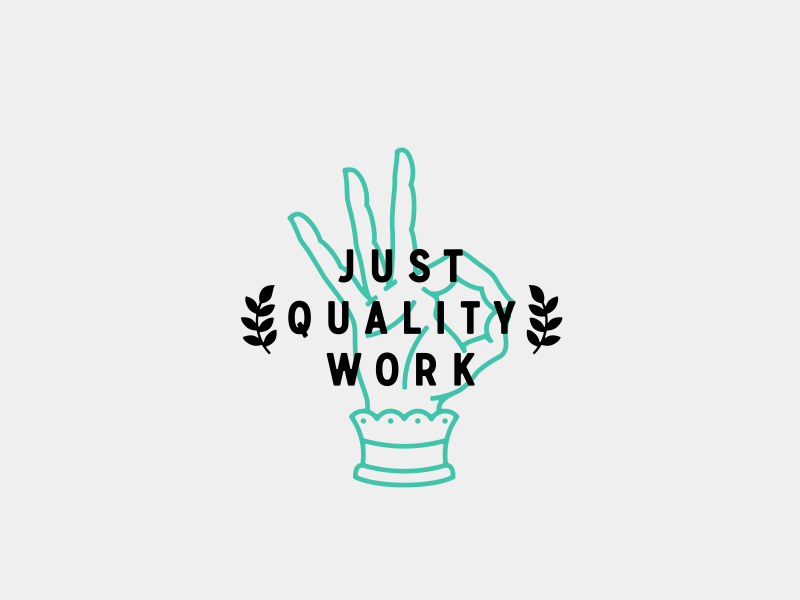
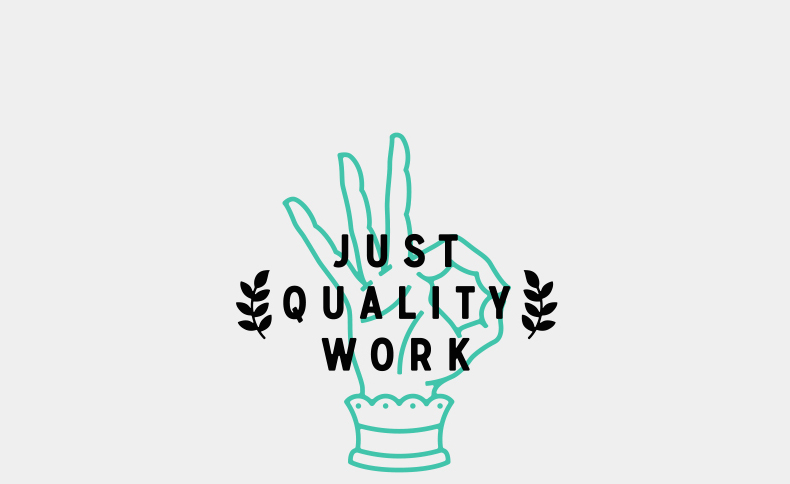
add welcome message on homepage

Changed region(s): [[0.3038, 0.2479, 0.7291, 0.9917]]

diff --git a/app/assets/stylesheets/application.css.sass b/app/assets/stylesheets/application.css.sass
@@ -27,8 +27,6 @@
   // padding: 0px
   // margin: 0px
 .header
-  line-height: 0px
-  padding: 0px
   letter-spacing: 17px
 
 .landing-sign-in-out
@@ -41,3 +39,8 @@
 .nav-bar
   letter-spacing: 4px
   text-align: center
+
+.landing-message
+  text-align: center
+  font-size: 17px
+  font-style: italic
